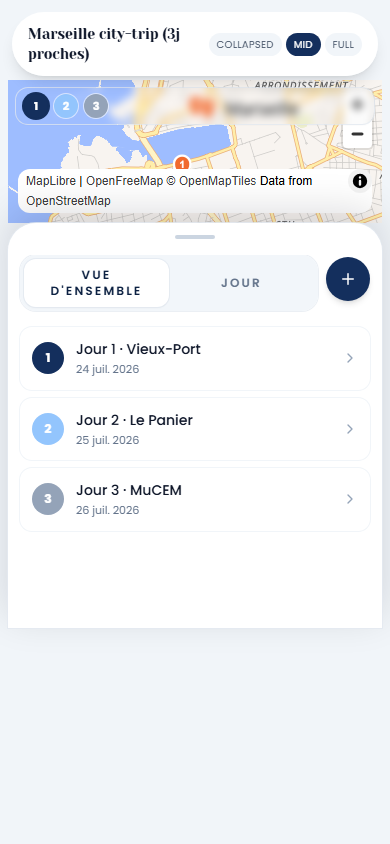
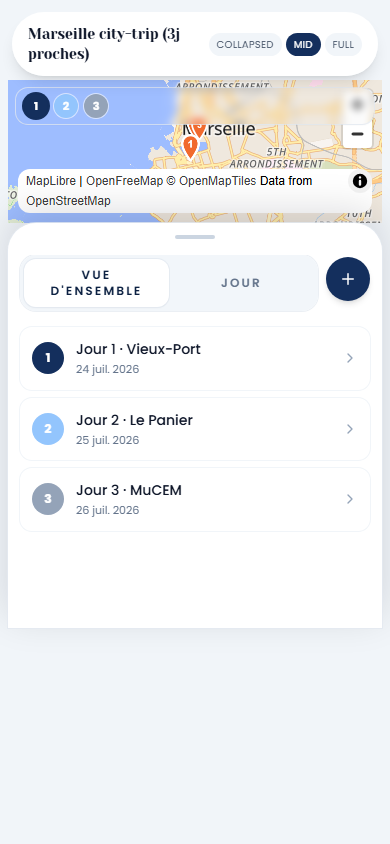
fix(ui): asymmetric day-view fitBounds with overlay-aware padding

diff --git a/lib/map/tripMapHelpers.js b/lib/map/tripMapHelpers.js
@@ -1,4 +1,5 @@
 import { BRAND_BLUE, BRAND_BLUE_DEEP, BRAND_BLUE_TINT } from "../brandColors.js";
+import { measurePlannerSheetSnaps } from "../ui/plannerSheetLayout.js";
 import { activityBalloonImageId, dayPinImageId } from "./activityBalloonMarker.js";
 
 export const DEFAULT_MAP_STYLE_URL = "https://tiles.openfreemap.org/styles/liberty";
@@ -194,24 +195,141 @@ export function dayCentroidsToRouteGeoJSON(centroids, selectedDayIndex) {
   return { type: "FeatureCollection", features };
 }
 
+/** Hauteur approx. des overlays carte (légende jours + « Voir tout le voyage »). */
+export const DAY_VIEW_MAP_OVERLAY_TOP_PX = 100;
+/** Marge latérale fitBounds vue jour. */
+export const DAY_VIEW_MAP_SIDE_PADDING_PX = 40;
+/** Débordement vertical des gouttes activité au-dessus de l’ancre (px). */
+export const DAY_VIEW_BALLOON_CLEARANCE_PX = 52;
+
+/**
+ * Padding asymétrique fitBounds vue jour — overlays haut + sheet mobile.
+ * @param {{ mode?: 'modal'|'trip'|'planner', sheetSnap?: 'collapsed'|'mid'|'full', viewportHeight?: number, mapHeightPx?: number, showTopOverlay?: boolean }} [opts]
+ */
+export function computeDayViewFitPadding(opts = {}) {
+  const mode = opts.mode ?? "modal";
+  const sheetSnap = opts.sheetSnap ?? "mid";
+  const showTopOverlay = opts.showTopOverlay !== false;
+  const vh = Math.max(320, Number(opts.viewportHeight) || (typeof window !== "undefined" ? window.innerHeight : 844));
+  const mapH = Math.max(0, Number(opts.mapHeightPx) || 0);
+
+  const side = DAY_VIEW_MAP_SIDE_PADDING_PX;
+  let overlayTop = showTopOverlay ? DAY_VIEW_MAP_OVERLAY_TOP_PX : 16;
+  let balloonClearance = DAY_VIEW_BALLOON_CLEARANCE_PX;
+  if (mapH > 0 && mapH < 220) {
+    balloonClearance = Math.min(
+      DAY_VIEW_BALLOON_CLEARANCE_PX,
+      Math.max(8, mapH - overlayTop - 40)
+    );
+  }
+  let top = overlayTop + balloonClearance;
+  let bottom = 48;
+
+  if (mode === "planner") {
+    const snaps = measurePlannerSheetSnaps(vh);
+    const sheetH = snaps[sheetSnap] ?? snaps.mid;
+    if (sheetSnap === "collapsed") bottom = Math.max(40, Math.round(sheetH * 0.55));
+    else if (sheetSnap === "full") bottom = 32;
+    else bottom = Math.max(56, Math.round(sheetH * 0.14));
+    if (mapH > 0 && mapH < 220) {
+      bottom = Math.min(bottom, Math.max(20, Math.round(mapH * 0.22)));
+    }
+  }
+
+  return { top, bottom, left: side, right: side };
+}
+
+/**
+ * Réduit le padding pour qu'il reste de la place au contenu dans le canvas (snap mid = bande courte).
+ * @param {import('maplibre-gl').Map} map
+ * @param {{ top: number, bottom: number, left: number, right: number }} paddingObj
+ * @param {number} [minContentPx]
+ */
+function clampFitPadding(map, paddingObj, minContentPx = 28) {
+  const el = map.getContainer?.();
+  const h = Math.max(1, el?.clientHeight || 1);
+  const w = Math.max(1, el?.clientWidth || 1);
+  let top = Math.max(0, Number(paddingObj.top) || 0);
+  let bottom = Math.max(0, Number(paddingObj.bottom) || 0);
+  let left = Math.max(0, Number(paddingObj.left) || 0);
+  let right = Math.max(0, Number(paddingObj.right) || 0);
+
+  const maxVerticalPad = Math.max(0, h - minContentPx);
+  const maxHorizontalPad = Math.max(0, w - minContentPx);
+  const verticalSum = top + bottom;
+  const horizontalSum = left + right;
+
+  if (verticalSum > maxVerticalPad && verticalSum > 0) {
+    const scale = maxVerticalPad / verticalSum;
+    top *= scale;
+    bottom *= scale;
+  }
+  if (horizontalSum > maxHorizontalPad && horizontalSum > 0) {
+    const scale = maxHorizontalPad / horizontalSum;
+    left *= scale;
+    right *= scale;
+  }
+
+  return { top, bottom, left, right };
+}
+
+/**
+ * @param {{ padding?: number, paddingInsets?: { top: number, bottom: number, left: number, right: number }, uniformPadding?: boolean }} paddingOpts
+ */
+function resolveFitPadding(paddingOpts = {}) {
+  if (
+    paddingOpts.paddingInsets
+    && Number.isFinite(Number(paddingOpts.paddingInsets.top))
+    && Number.isFinite(Number(paddingOpts.paddingInsets.bottom))
+    && Number.isFinite(Number(paddingOpts.paddingInsets.left))
+    && Number.isFinite(Number(paddingOpts.paddingInsets.right))
+  ) {
+    return {
+      top: Number(paddingOpts.paddingInsets.top),
+      bottom: Number(paddingOpts.paddingInsets.bottom),
+      left: Number(paddingOpts.paddingInsets.left),
+      right: Number(paddingOpts.paddingInsets.right),
+    };
+  }
+  const padding = paddingOpts.padding ?? 72;
+  return paddingOpts.uniformPadding
+    ? { top: padding, bottom: padding, left: padding, right: padding }
+    : { top: padding, bottom: padding + 48, left: padding, right: padding };
+}
+
 /**
  * @param {import('maplibre-gl').Map} map
  * @param {Array<{ latitude: number, longitude: number }>} activities
- * @param {{ padding?: number, animate?: boolean, maxZoom?: number, uniformPadding?: boolean }} [opts]
+ * @param {{ padding?: number, paddingInsets?: { top: number, bottom: number, left: number, right: number }, animate?: boolean, maxZoom?: number, uniformPadding?: boolean }} [opts]
  */
 export function fitMapToActivities(map, activities, opts = {}) {
   const pts = (activities || []).filter(
     (a) => Number.isFinite(Number(a?.latitude)) && Number.isFinite(Number(a?.longitude))
   );
   if (!pts.length || !map) return;
-  const padding = opts.padding ?? 72;
+  const paddingObj = clampFitPadding(map, resolveFitPadding(opts));
   const duration = opts.animate === false ? 0 : undefined;
+  const containerH = Math.max(1, map.getContainer?.()?.clientHeight || 1);
+  const maxZoom =
+    opts.maxZoom ??
+    (containerH < 160 ? 11 : containerH < 220 ? 12 : containerH < 260 ? 14 : 15);
+  const fitOpts = {
+    padding: paddingObj,
+    maxZoom,
+    ...(duration === 0 ? { duration: 0 } : {}),
+  };
+
   if (pts.length === 1) {
-    map.easeTo({
-      center: [Number(pts[0].longitude), Number(pts[0].latitude)],
-      zoom: Math.max(map.getZoom(), 13),
-      ...(duration === 0 ? { duration: 0 } : {}),
-    });
+    const lon = Number(pts[0].longitude);
+    const lat = Number(pts[0].latitude);
+    const delta = 0.007;
+    map.fitBounds(
+      [
+        [lon - delta, lat - delta],
+        [lon + delta, lat + delta],
+      ],
+      { ...fitOpts, maxZoom: Math.min(maxZoom, 14) }
+    );
     return;
   }
   let minLon = Infinity;
@@ -231,13 +349,7 @@ export function fitMapToActivities(map, activities, opts = {}) {
       [minLon, minLat],
       [maxLon, maxLat],
     ],
-    {
-      padding: opts.uniformPadding
-        ? { top: padding, bottom: padding, left: padding, right: padding }
-        : { top: padding, bottom: padding + 48, left: padding, right: padding },
-      maxZoom: opts.maxZoom ?? 15,
-      ...(duration === 0 ? { duration: 0 } : {}),
-    }
+    fitOpts
   );
 }
 

diff --git a/lib/map/TripMap.jsx b/lib/map/TripMap.jsx
@@ -10,6 +10,7 @@ import {
   activitiesToOverviewPointGeoJSON,
   activitiesToRouteGeoJSON,
   computeDayCentroids,
+  computeDayViewFitPadding,
   dayCentroidsToPointGeoJSON,
   dayMarkerColor,
   BRAND_BLUE,
@@ -51,6 +52,7 @@ const EMPTY_FC = { type: "FeatureCollection", features: [] };
  *   className?: string,
  *   fallbackCenter?: { latitude: number, longitude: number }|null,
  *   suppressActivitySheet?: boolean,
+ *   sheetSnap?: 'collapsed'|'mid'|'full',
  * }} props
  */
 export default function TripMap({
@@ -67,6 +69,7 @@ export default function TripMap({
   className = "",
   fallbackCenter = null,
   suppressActivitySheet = false,
+  sheetSnap = "mid",
 }) {
   const { t } = useI18n();
   const containerRef = useRef(null);
@@ -75,6 +78,17 @@ export default function TripMap({
   const [mapReady, setMapReady] = useState(false);
   const [loadError, setLoadError] = useState(false);
   const [sheetActivity, setSheetActivity] = useState(null);
+  const [mapContainerHeightPx, setMapContainerHeightPx] = useState(0);
+
+  useEffect(() => {
+    const el = containerRef.current;
+    if (!el || typeof ResizeObserver === "undefined") return undefined;
+    const update = () => setMapContainerHeightPx(el.clientHeight || 0);
+    update();
+    const ro = new ResizeObserver(update);
+    ro.observe(el);
+    return () => ro.disconnect();
+  }, []);
 
   const mappedActivities = useMemo(
     () =>
@@ -113,6 +127,8 @@ export default function TripMap({
   dayCentroidsRef.current = dayCentroids;
   const selectedDayIndexRef = useRef(selectedDayIndex);
   selectedDayIndexRef.current = selectedDayIndex;
+  const dayActivitiesRef = useRef(dayActivities);
+  dayActivitiesRef.current = dayActivities;
 
   const legendDays = useMemo(() => {
     const byIdx = new Map();
@@ -128,6 +144,20 @@ export default function TripMap({
     }
     return [...byIdx.values()].sort((a, b) => a.dayIndex - b.dayIndex);
   }, [activities]);
+
+  const dayFitPadding = useMemo(
+    () =>
+      computeDayViewFitPadding({
+        mode,
+        sheetSnap,
+        viewportHeight: typeof window !== "undefined" ? window.innerHeight : 844,
+        mapHeightPx: mapContainerHeightPx,
+        showTopOverlay: Boolean(onViewTrip && requestedDayView) || legendDays.length > 0,
+      }),
+    [mode, sheetSnap, mapContainerHeightPx, onViewTrip, requestedDayView, legendDays.length]
+  );
+  const dayFitPaddingRef = useRef(dayFitPadding);
+  dayFitPaddingRef.current = dayFitPadding;
 
   const activityPointsData = useMemo(() => {
     if (effectiveView === "day") {
@@ -266,6 +296,17 @@ export default function TripMap({
     }
   }, [mapReady]);
 
+  const fitDayView = useCallback(() => {
+    const map = mapRef.current;
+    if (!map || !mapReady || effectiveViewRef.current !== "day") return;
+    const acts = dayActivitiesRef.current;
+    if (!acts.length) return;
+    fitMapToActivities(map, acts, {
+      paddingInsets: dayFitPaddingRef.current,
+      animate: false,
+    });
+  }, [mapReady]);
+
   const syncSources = useCallback(() => {
     const map = mapRef.current;
     if (!map || !mapReady) return;
@@ -354,15 +395,31 @@ export default function TripMap({
   const mapPadding = mode === "planner" ? 120 : mode === "modal" ? 88 : 64;
 
   useEffect(() => {
+    if (!mapReady || effectiveView !== "day") return;
+    fitDayView();
+  }, [mapReady, effectiveView, selectedDayIndex, dayActivities, dayFitPadding, fitDayView]);
+
+  useEffect(() => {
+    if (!mapReady || effectiveView !== "day" || !mapContainerHeightPx) return;
+    fitDayView();
+  }, [mapReady, effectiveView, mapContainerHeightPx, fitDayView]);
+
+  useEffect(() => {
     const map = mapRef.current;
-    if (!map || !mapReady || effectiveView !== "day") return;
-    if (!dayActivities.length) return;
-    fitMapToActivities(map, dayActivities, {
-      padding: 40,
-      uniformPadding: true,
-      animate: false,
-    });
-  }, [mapReady, effectiveView, selectedDayIndex, dayActivities]);
+    if (!map || !mapReady || effectiveView !== "day") return undefined;
+    const onResize = () => fitDayView();
+    map.on("resize", onResize);
+    return () => map.off("resize", onResize);
+  }, [mapReady, effectiveView, fitDayView]);
+
+  useEffect(() => {
+    if (!mapReady || effectiveView !== "day") return;
+    const map = mapRef.current;
+    if (!map) return;
+    map.resize();
+    const timer = window.setTimeout(fitDayView, 80);
+    return () => window.clearTimeout(timer);
+  }, [mapReady, effectiveView, sheetSnap, fitDayView]);
 
   useEffect(() => {
     const map = mapRef.current;
@@ -604,13 +661,26 @@ export default function TripMap({
       });
 
       setMapReady(true);
-      if (effectiveViewRef.current !== "trip" && fitTargets.length > 0) {
+      if (effectiveViewRef.current === "day" && dayActivitiesRef.current.length) {
+        fitMapToActivities(map, dayActivitiesRef.current, {
+          paddingInsets: dayFitPaddingRef.current,
+          animate: false,
+        });
+      } else if (effectiveViewRef.current !== "trip" && fitTargets.length > 0) {
         fitMapToActivities(map, fitTargets, {
           padding: mapPadding,
           animate: false,
         });
       }
       map.resize();
+      window.setTimeout(() => {
+        if (cancelled || !map || effectiveViewRef.current !== "day") return;
+        if (!dayActivitiesRef.current.length) return;
+        fitMapToActivities(map, dayActivitiesRef.current, {
+          paddingInsets: dayFitPaddingRef.current,
+          animate: false,
+        });
+      }, 80);
     };
 
     const beginLayerSetup = () => {

diff --git a/lib/ui/PlannerSheetPreview.jsx b/lib/ui/PlannerSheetPreview.jsx
@@ -172,6 +172,7 @@ export default function PlannerSheetPreview() {
               cityLabel={scenario.cityLabel}
               fallbackCenter={scenario.fallbackCenter}
               suppressActivitySheet
+              sheetSnap={sheetSnap}
               className="h-full min-h-0"
             />
           }

diff --git a/App.jsx b/App.jsx
@@ -14989,6 +14989,7 @@ function PlannerView({
       cityLabel={tripCityLabel}
       fallbackCenter={destinationCenter}
       suppressActivitySheet={!isDesktopPlanner}
+      sheetSnap={sheetSnap}
       className="h-full min-h-0"
     />
   ) : null;
